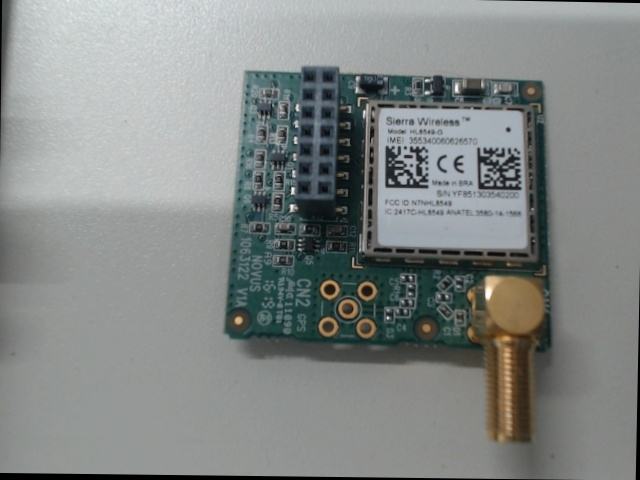
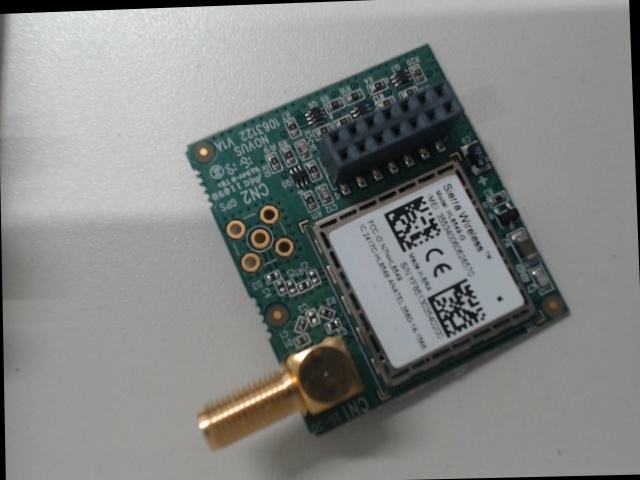
GUI working with align and compare

diff --git a/index.py b/index.py
@@ -4,20 +4,71 @@ import PySimpleGUI as sg
 import cv2
 import numpy as np
 import time
+import matplotlib.pyplot as plt
+
+def alignImages(defaultAlign, ComparedImage):
+    # Convert images to grayscale
+    im1_gray = cv2.cvtColor(defaultAlign,cv2.COLOR_BGR2GRAY)
+    im2_gray = cv2.cvtColor(ComparedImage,cv2.COLOR_BGR2GRAY)
+
+    # Find size of image1
+    sz = defaultAlign.shape
+
+    # Define the motion model
+    warp_mode = cv2.MOTION_HOMOGRAPHY
+
+    # Define 2x3 or 3x3 matrices and initialize the matrix to identity
+    if warp_mode == cv2.MOTION_HOMOGRAPHY :
+        warp_matrix = np.eye(3, 3, dtype=np.float32)
+    else :
+        warp_matrix = np.eye(2, 3, dtype=np.float32)
+
+    # Specify the number of iterations.
+    number_of_iterations = 4000
+    
+    # Specify the threshold of the increment
+    # in the correlation coefficient between two iterations
+    termination_eps = (1e-10)
+    
+    # Define termination criteria
+    criteria = (cv2.TERM_CRITERIA_EPS | cv2.TERM_CRITERIA_COUNT, number_of_iterations,  termination_eps)
+
+    # Run the ECC algorithm. The results are stored in warp_matrix.
+    start = time.time()
+    (cc, warp_matrix) = cv2.findTransformECC (im1_gray,im2_gray,warp_matrix, warp_mode, criteria)
+    print("--- %s seconds ---" % (time.time() - start))
+
+    start = time.time()
+    if warp_mode == cv2.MOTION_HOMOGRAPHY :
+        # Use warpPerspective for Homography
+        im2_aligned = cv2.warpPerspective (ComparedImage, warp_matrix, (sz[1],sz[0]), flags=cv2.INTER_LINEAR + cv2.WARP_INVERSE_MAP)
+    else :
+        # Use warpAffine for Translation, Euclidean and Affine
+        im2_aligned = cv2.warpAffine(ComparedImage, warp_matrix, (sz[1],sz[0]), flags=cv2.INTER_LINEAR + cv2.WARP_INVERSE_MAP)
+
+    aligned_gray = cv2.cvtColor(im2_aligned,cv2.COLOR_BGR2RGB)
+
+    return aligned_gray, defaultAlign
 
 def compareImages(DefaultImage, ComparedImage):
     scaledown_percent = 100
 
-    DefaultImageResized = resizeImage(DefaultImage, scaledown_percent)
+    DefaultImageHolder = DefaultImage
 
-    DefaultImage = resizeImage(DefaultImage, scaledown_percent)
-    ComparedImage = resizeImage(ComparedImage, scaledown_percent)
+    #DefaultImage = resizeImage(DefaultImage, scaledown_percent)
+    #ComparedImage = resizeImage(ComparedImage, scaledown_percent)
 
     DefaultBlured = cv2.GaussianBlur(DefaultImage, (5, 5), 0)
     ComparedBlured = cv2.GaussianBlur(ComparedImage, (5, 5), 0)
 
+    print(DefaultBlured.shape)
+    print(ComparedBlured.shape)
+
     DefaultGray = cv2.cvtColor(DefaultBlured, cv2.COLOR_BGR2GRAY)
     ComparedGray = cv2.cvtColor(ComparedBlured, cv2.COLOR_BGR2GRAY)
+
+    #DefaultGray = DefaultBlured
+    #ComparedGray = ComparedBlured
 
     (score, diff) = structural_similarity(DefaultGray, ComparedGray, full=True)
     print("Image similarity", score)
@@ -38,7 +89,7 @@ def compareImages(DefaultImage, ComparedImage):
 
     for c in contours:
         area = cv2.contourArea(c)
-        if area > 250:
+        if area > 30:
             x,y,w,h = cv2.boundingRect(c)
             cv2.rectangle(DefaultImage, (x, y), (x + w, y + h), (36,255,12), 2)
             cv2.rectangle(ComparedImage, (x, y), (x + w, y + h), (36,255,12), 2)
@@ -51,9 +102,7 @@ def compareImages(DefaultImage, ComparedImage):
 
     upfilled = resizeImage(filled_after, scaleup_percent)
 
-    DefaultImageResized = resizeImage(DefaultImageResized, scaleup_percent)
-
-    return resultCompared, DefaultImageResized, upfilled, diff
+    return resultCompared, DefaultImageHolder, upfilled, diff
 
 def resizeImage(image, percent):
     width = int(image.shape[1] * percent / 100)
@@ -118,7 +167,7 @@ def main():
 
         #Controle de foco pelo slider, caso seja necessário
         #cap.set(cv2.CAP_PROP_FOCUS,values['Focus'])
-        cap.set(cv2.CAP_PROP_FOCUS,50)
+        cap.set(cv2.CAP_PROP_FOCUS,80)
         
         if event == 'Sair' or event == sg.WIN_CLOSED:
             return
@@ -138,14 +187,25 @@ def main():
             window['image4'].update(data=imgbytes)
 
         elif event == 'Comparar':
-
+            
+            result = []
             ret, frame = cap.read()
             loadCompare = resizeImage(frame, framescale)
 
-            result = compareImages(loadDefault, loadCompare)
+            encoded = cv2.imencode('.png', loadDefault)[1].tobytes()
+            window['image'].update(data=encoded)
+            patternImage = loadDefault.copy()
+            aligned = alignImages(patternImage, loadCompare)#LoadDefault atualizando sem necessidade, verificar
+
+            loadCompare = aligned[0]
+            Default = aligned[1]
+
+            result = compareImages(Default, loadCompare)
+
+            comparedResult = cv2.cvtColor(result[0], cv2.COLOR_BGR2RGB)
 
             encodedDefault = cv2.imencode('.png', result[1])[1].tobytes()
-            encodedCompared = cv2.imencode('.png', result[0])[1].tobytes()
+            encodedCompared = cv2.imencode('.png', comparedResult)[1].tobytes()
             encodedTest = cv2.imencode('.png', result[3])[1].tobytes()
 
             window['image2'].update(data=encodedCompared)

diff --git a/saveimg.py b/saveimg.py
@@ -5,6 +5,7 @@ import cv2
 
 # importing os module
 import os
+import time
 
 # Image path
 cap = cv2.VideoCapture(1)
@@ -25,11 +26,13 @@ print("Before saving image:")
 print(os.listdir(directory))
 
 # Filename
-filename = 'image1.jpg'
+filename = 'image2.jpg'
 
 # Using cv2.imwrite() method
 # Saving the image
+start = time.time()
 cv2.imwrite(filename, frame)
+print("--- %s seconds ---" % (time.time() - start))
 
 # List files and directories
 # in 'C:/Users / Rajnish / Desktop / GeeksforGeeks'

diff --git a/compare.py b/compare.py
@@ -65,5 +65,5 @@ aligned = cv2.imread(r'C:\Users\gely\Desktop\Desenvolvimento\Python\SimplePyImg\
 
 result = compareImages(pattern, aligned)
 
-plt.imshow(result[3], cmap='gray')
+plt.imshow(result[0], cmap='gray')
 plt.show()
